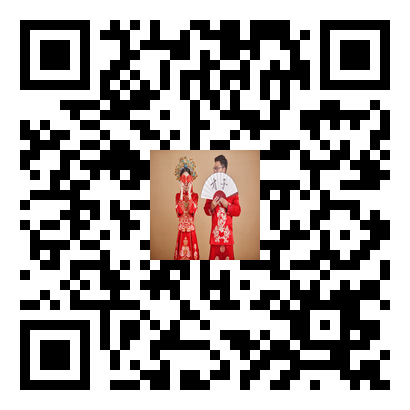
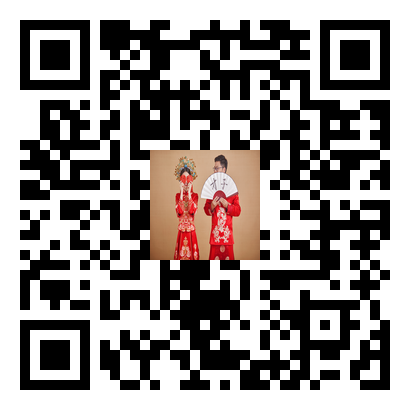
手机号修改

Changed region(s): [[0.0293, 0.0293, 0.9659, 0.9659], [0.2341, 0.0293, 0.322, 0.1756], [0.878, 0.2341, 0.9659, 0.2927]]

diff --git a/weddingInvitations-master/index.html b/weddingInvitations-master/index.html
@@ -618,11 +618,11 @@
           <p class="js-animate animated" data-animate="bounceInDown" data-time="0"><i
               class="iconfont red-icon">&#xe63e;</i>山东省临沂市兰陵县</p>
           <p class="js-animate animated" data-animate="bounceInLeft" data-time="1000"><i
-              class="iconfont red-icon">&#xe622;</i>代村沂蒙老街南侧新天地礼宾楼（悦兰亭）</p>
+              class="iconfont red-icon">&#xe622;</i>代村沂蒙老街南侧新天地礼宾楼（3楼悦兰亭）</p>
           <p class="js-animate animated" data-animate="bounceInRight" data-time="2000"><i
               class="iconfont red-icon">&#xe72b;</i>农展中心站</p>
           <p class="js-animate animated" data-animate="bounceInUp" data-time="3000"><i
-              class="iconfont red-icon">&#xe636;</i>新郎18811129106 & 新娘18710029195</p>
+              class="iconfont red-icon">&#xe636;</i>如有疑问请联系：新郎18811129106</p>
         </div>
       </div>
     </div>

diff --git a/server_end/background/qr_code_gen.py b/server_end/background/qr_code_gen.py
@@ -49,8 +49,8 @@ def mk_qr(url, icon_path, save_path):
 
 
 if __name__ == '__main__':
-    sale_url = "http://10.220.32.154:9000"  # 本地
-    # sale_url = "http://1.117.213.193"  # 线上
+    # sale_url = "http://10.220.32.154:9000"  # 本地
+    sale_url = "http://1.117.213.193"  # 线上
     icon_img = './files/wedding_logo.jpg'  # 中间图标
     qr_code_img = "./files/wedding.png"  # 生成的二维码图片
     mk_qr(sale_url, icon_img, qr_code_img)
